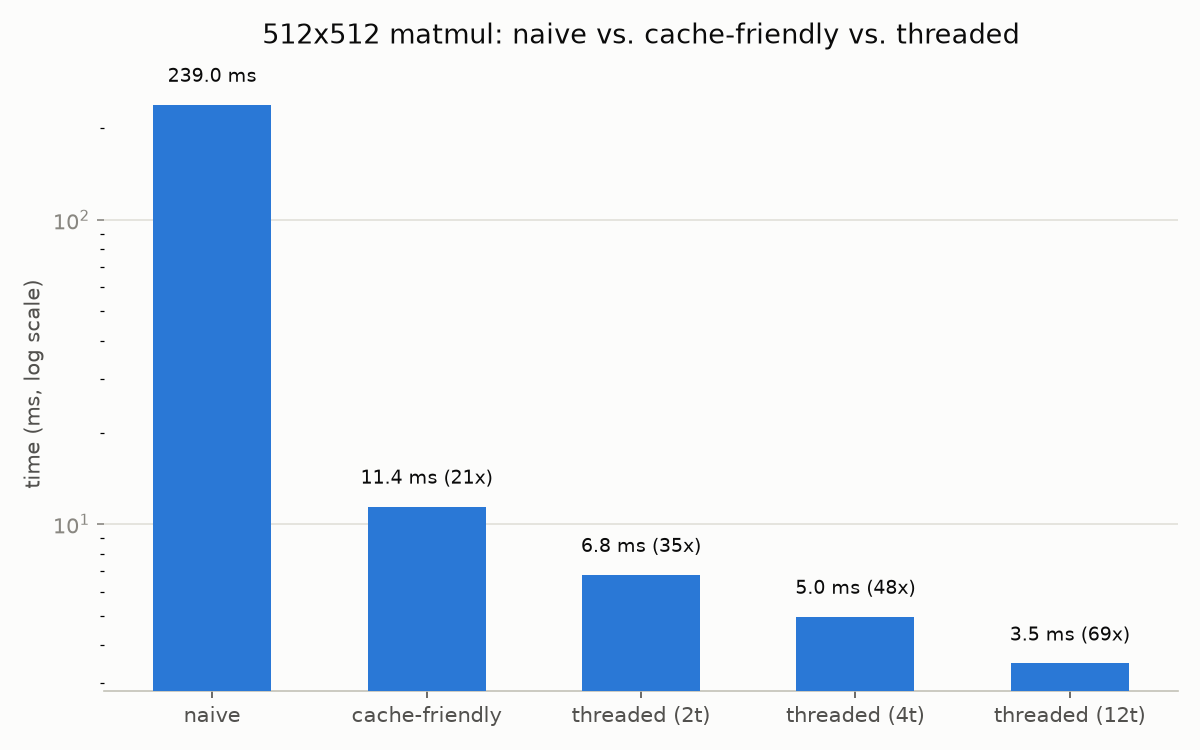
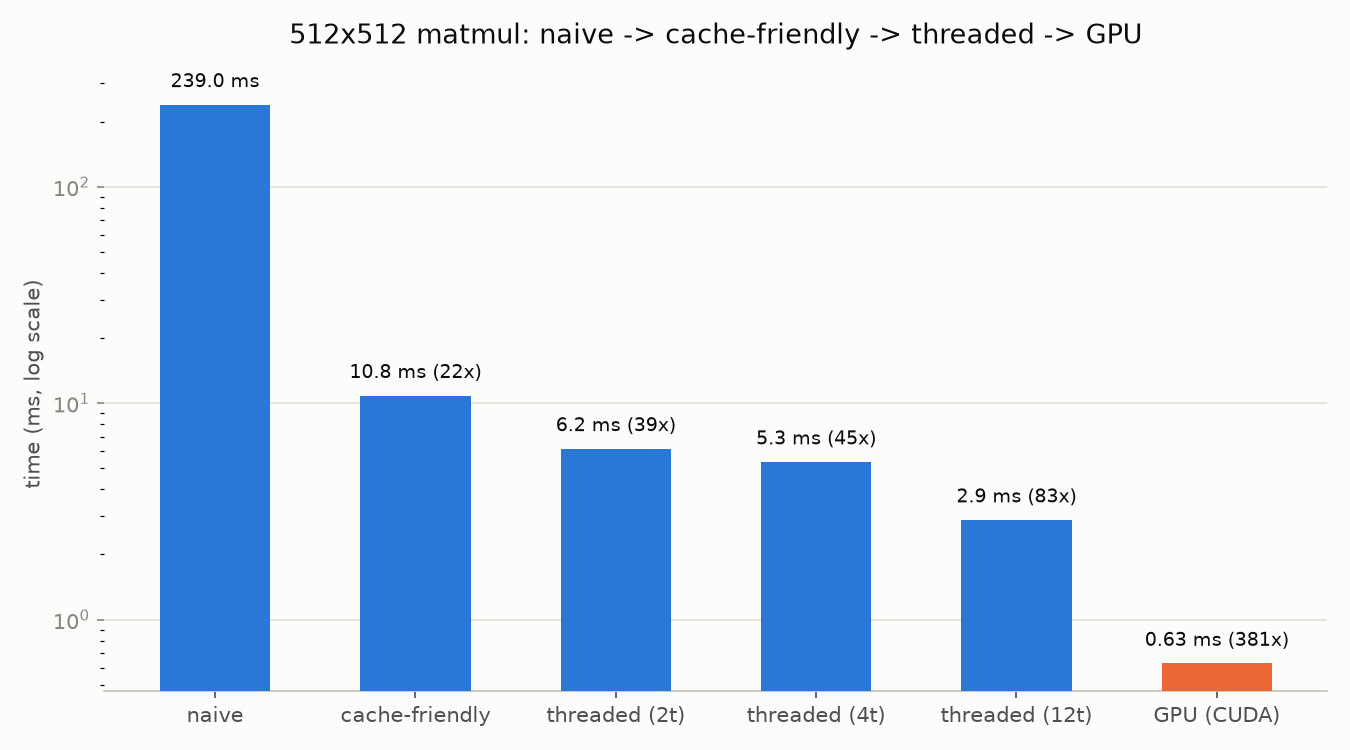
Stage 3: CUDA matmul kernel, benchmarked on a Colab T4 GPU
- matmul.cu: naive CUDA kernel (one GPU thread per output cell), with a
  CPU reference for correctness checking and cudaEvent-based timing
- Includes a warm-up launch before timing: the first kernel launch on a GPU
  pays a one-time JIT-compilation cost that has nothing to do with the
  algorithm -- an early run without the warm-up measured 109ms (a misleading
  1.7x "speedup") purely from that overhead; with it, the real number is
  0.63ms
- stage3_cuda/README.md documents the Colab repro steps (no local GPU here)

512x512 matmul on a Colab T4: 187ms single-threaded CPU -> 0.63ms GPU (298x)

Also added tools/visualize_digits.py, a small helper to render actual MNIST
test images next to their predictions for sanity-checking Stage 1 visually.

diff --git a/tools/visualize_digits.py b/tools/visualize_digits.py
@@ -1,0 +1,68 @@
+"""
+Renders a handful of images from data/test_set.bin as an actual picture, so
+you can see what the C++ program is looking at. One-off helper, not part of
+the C++ project.
+
+Run: python tools/visualize_digits.py
+"""
+
+import os
+import struct
+
+import matplotlib.pyplot as plt
+import numpy as np
+
+SCRIPT_DIR = os.path.dirname(os.path.abspath(__file__))
+DATA_DIR = os.path.join(SCRIPT_DIR, "..", "data")
+RESULTS_DIR = os.path.join(SCRIPT_DIR, "..", "results")
+
+# predictions from a real run of stage1_inference.exe, so the picture and
+# the program's actual output line up
+KNOWN_PREDICTIONS = {
+    0: 7,
+    1: 2,
+    2: 1,
+    3: 0,
+    8: 6,  # this one the model got wrong (actual digit is 5)
+}
+
+
+def load_test_set(path):
+    with open(path, "rb") as f:
+        count, image_dim = struct.unpack("<II", f.read(8))
+        images = np.frombuffer(f.read(count * image_dim * 4), dtype="<f4").reshape(
+            count, image_dim
+        )
+        labels = np.frombuffer(f.read(count * 4), dtype="<u4")
+        return images, labels
+
+
+def main():
+    images, labels = load_test_set(os.path.join(DATA_DIR, "test_set.bin"))
+
+    indices = [0, 1, 2, 3, 8]
+    fig, axes = plt.subplots(1, len(indices), figsize=(12, 3))
+
+    for ax, idx in zip(axes, indices):
+        img = images[idx].reshape(28, 28)
+        actual = int(labels[idx])
+        predicted = KNOWN_PREDICTIONS.get(idx)
+        correct = predicted == actual
+
+        ax.imshow(img, cmap="gray_r")
+        ax.set_title(
+            f"actual: {actual}\npredicted: {predicted}",
+            color="#0b0b0b" if correct else "#d03b3b",
+            fontsize=11,
+        )
+        ax.axis("off")
+
+    fig.suptitle("What the C++ program actually sees and predicts", fontsize=13)
+    fig.tight_layout()
+    out_path = os.path.join(RESULTS_DIR, "sample_digits.png")
+    fig.savefig(out_path, dpi=150, facecolor="white")
+    print(f"wrote {out_path}")
+
+
+if __name__ == "__main__":
+    main()

diff --git a/tools/make_chart.py b/tools/make_chart.py
@@ -20,9 +20,11 @@ LABELS = {
     ("cache_friendly", "1"): "cache-friendly",
     ("threaded", "2"): "threaded (2t)",
     ("threaded", "4"): "threaded (4t)",
+    ("cuda_gpu", "1"): "GPU (CUDA)",
 }
 
 BLUE = "#2a78d6"
+ORANGE = "#eb6834"
 SURFACE = "#fcfcfb"
 PRIMARY_INK = "#0b0b0b"
 SECONDARY_INK = "#52514e"
@@ -57,16 +59,17 @@ def main():
     times = list(seen_labels.values())
     baseline = times[0]
     speedups = [baseline / t for t in times]
+    colors = [ORANGE if label == "GPU (CUDA)" else BLUE for label in labels]
 
-    fig, ax = plt.subplots(figsize=(8, 5), facecolor=SURFACE)
+    fig, ax = plt.subplots(figsize=(9, 5), facecolor=SURFACE)
     ax.set_facecolor(SURFACE)
 
-    bars = ax.bar(labels, times, color=BLUE, width=0.55, zorder=3)
+    bars = ax.bar(labels, times, color=colors, width=0.55, zorder=3)
 
     ax.set_yscale("log")
     ax.set_ylabel("time (ms, log scale)", color=SECONDARY_INK)
-    ax.set_title("512x512 matmul: naive vs. cache-friendly vs. threaded", color=PRIMARY_INK,
-                 fontsize=13, pad=16)
+    ax.set_title("512x512 matmul: naive -> cache-friendly -> threaded -> GPU",
+                 color=PRIMARY_INK, fontsize=13, pad=16)
 
     ax.grid(axis="y", color=GRIDLINE, linewidth=0.8, zorder=0)
     ax.spines[["top", "right", "left"]].set_visible(False)
@@ -75,7 +78,8 @@ def main():
     ax.tick_params(axis="y", colors=MUTED)
 
     for bar, t, s in zip(bars, times, speedups):
-        label = f"{t:.1f} ms" if s == 1.0 else f"{t:.1f} ms ({s:.0f}x)"
+        time_str = f"{t:.2f} ms" if t < 1 else f"{t:.1f} ms"
+        label = time_str if s == 1.0 else f"{time_str} ({s:.0f}x)"
         ax.text(bar.get_x() + bar.get_width() / 2, t * 1.15, label, ha="center", va="bottom",
                 color=PRIMARY_INK, fontsize=9)
 

diff --git a/stage3_cuda/README.md b/stage3_cuda/README.md
@@ -1,0 +1,49 @@
+# Stage 3 — CUDA port
+
+`matmul.cu` is a naive CUDA matmul kernel: one GPU thread computes one output
+cell. It benchmarks itself against a CPU reference and checks correctness
+before reporting any timing (same principle as Stage 2's benchmark).
+
+This machine has no NVIDIA GPU, so this is compiled and run on a free cloud
+GPU instead — Google Colab's free tier includes a T4 GPU and has `nvcc`
+preinstalled, no setup required.
+
+## Running it on Google Colab
+
+1. Go to <https://colab.research.google.com/> and create a new notebook.
+2. **Runtime → Change runtime type → Hardware accelerator → GPU (T4)**, save.
+3. In the first cell, paste the *entire contents* of `matmul.cu` into a
+   `%%writefile` cell so it gets saved as a file inside the Colab VM:
+
+   ```
+   %%writefile matmul.cu
+   <paste the whole file here>
+   ```
+
+   Run that cell (Shift+Enter).
+4. In a new cell, compile and run it:
+
+   ```
+   !nvcc -O3 matmul.cu -o matmul && ./matmul
+   ```
+
+5. Paste the output back here (or just tell me what it printed) — I'll help
+   read the results and, if `nvcc` reports any compile errors, fix them on
+   the spot. That's the normal workflow for developing CUDA code without a
+   local GPU: write it, run it on real hardware, iterate on whatever the
+   compiler/runtime actually says.
+
+## Expected output shape
+
+```
+correctness check -- max abs diff vs CPU reference: 0.000000
+correctness OK
+
+matrix size: 512x512
+GPU (naive CUDA kernel): <N> ms
+CPU (naive, single-threaded): <N> ms
+speedup: <N>x
+```
+
+Once you have real numbers, they get added to `results/benchmarks.csv` and
+the chart, same as Stage 2.

diff --git a/README.md b/README.md
@@ -12,8 +12,10 @@ and benchmarked CPU vs. GPU. Built stage by stage while learning C++ along the w
 - [x] **Stage 2 — Make it fast**: cache-friendly matmul + multithreading, benchmarked.
       (512x512 matmul: 239ms naive -> 11.4ms cache-friendly (21x) -> 3.5ms
       threaded on 12 cores (69x). See `results/benchmarks.csv`.)
-- [ ] **Stage 3 — CUDA port**: matmul kernel on GPU, CPU vs. GPU timings
-      (validated on a cloud GPU — see `stage3_cuda/README.md`).
+- [x] **Stage 3 — CUDA port**: matmul kernel on GPU, CPU vs. GPU timings.
+      (512x512 matmul: 0.63ms on a Colab T4 GPU vs. 187ms single-threaded CPU
+      — 298x. Validated on a cloud GPU since this machine has none — see
+      `stage3_cuda/README.md`.)
 - [ ] **Stage 4 — Stretch: tiny language model** (llama2.c-style), only if time allows.
 
 ## Building
@@ -37,11 +39,15 @@ python tools/train_export.py
 
 ## Benchmarks
 
-![matmul speedup: naive vs cache-friendly vs threaded](results/speedup_chart.png)
+![matmul speedup: naive vs cache-friendly vs threaded vs GPU](results/speedup_chart.png)
 
-Raw numbers in `results/benchmarks.csv`. Regenerate with:
+Raw numbers in `results/benchmarks.csv`. Regenerate the CPU-side numbers with:
 
 ```
 ./build/stage2_fast/stage2_benchmark.exe
 python tools/make_chart.py
 ```
+
+The GPU number comes from running `stage3_cuda/matmul.cu` on a cloud GPU (see
+`stage3_cuda/README.md`) and is appended to `results/benchmarks.csv` by hand,
+since it's a separate program running on separate hardware.
